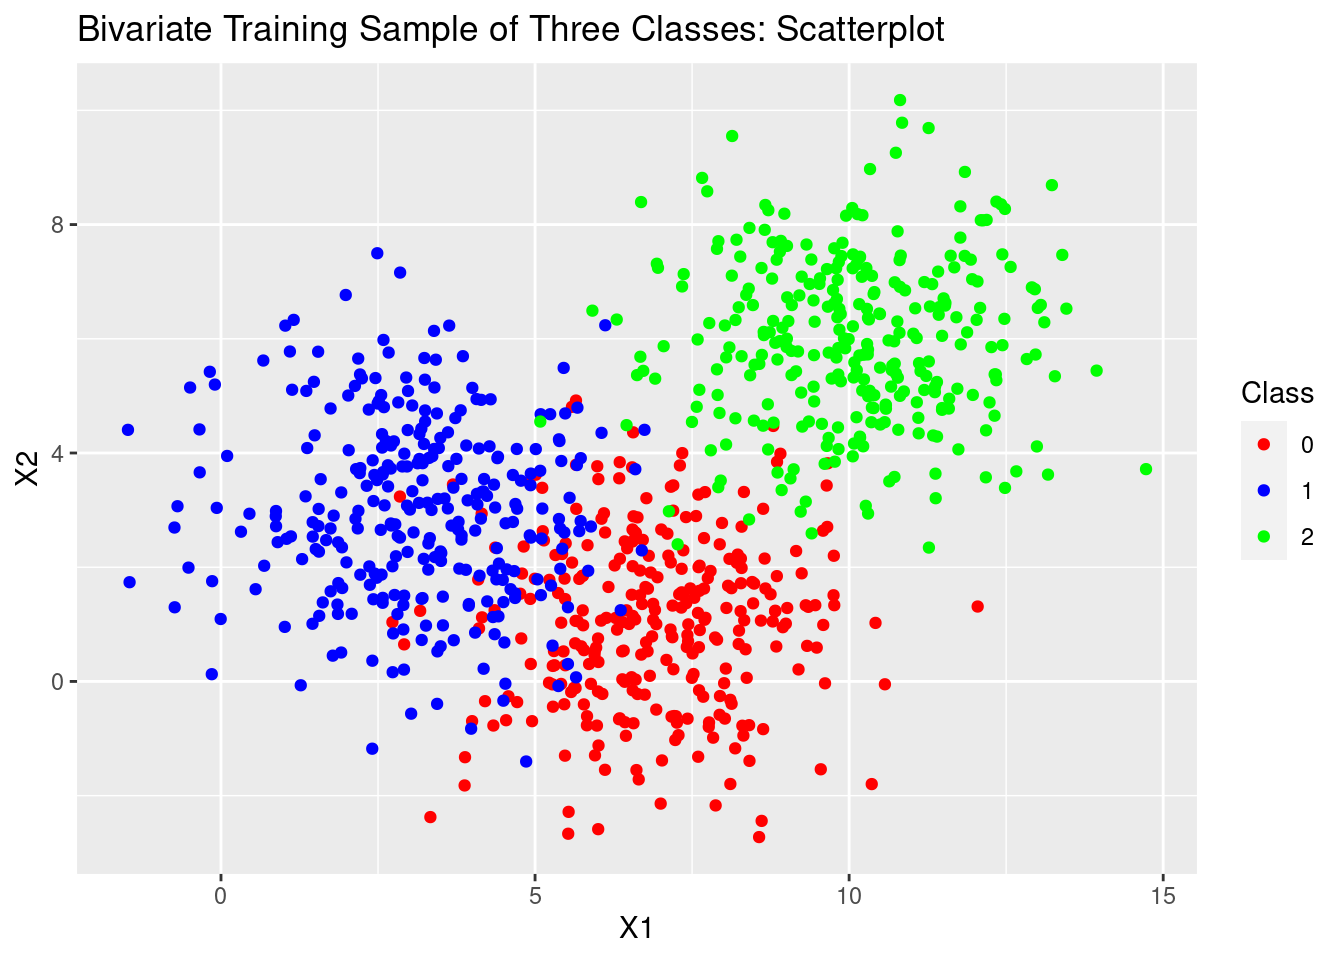
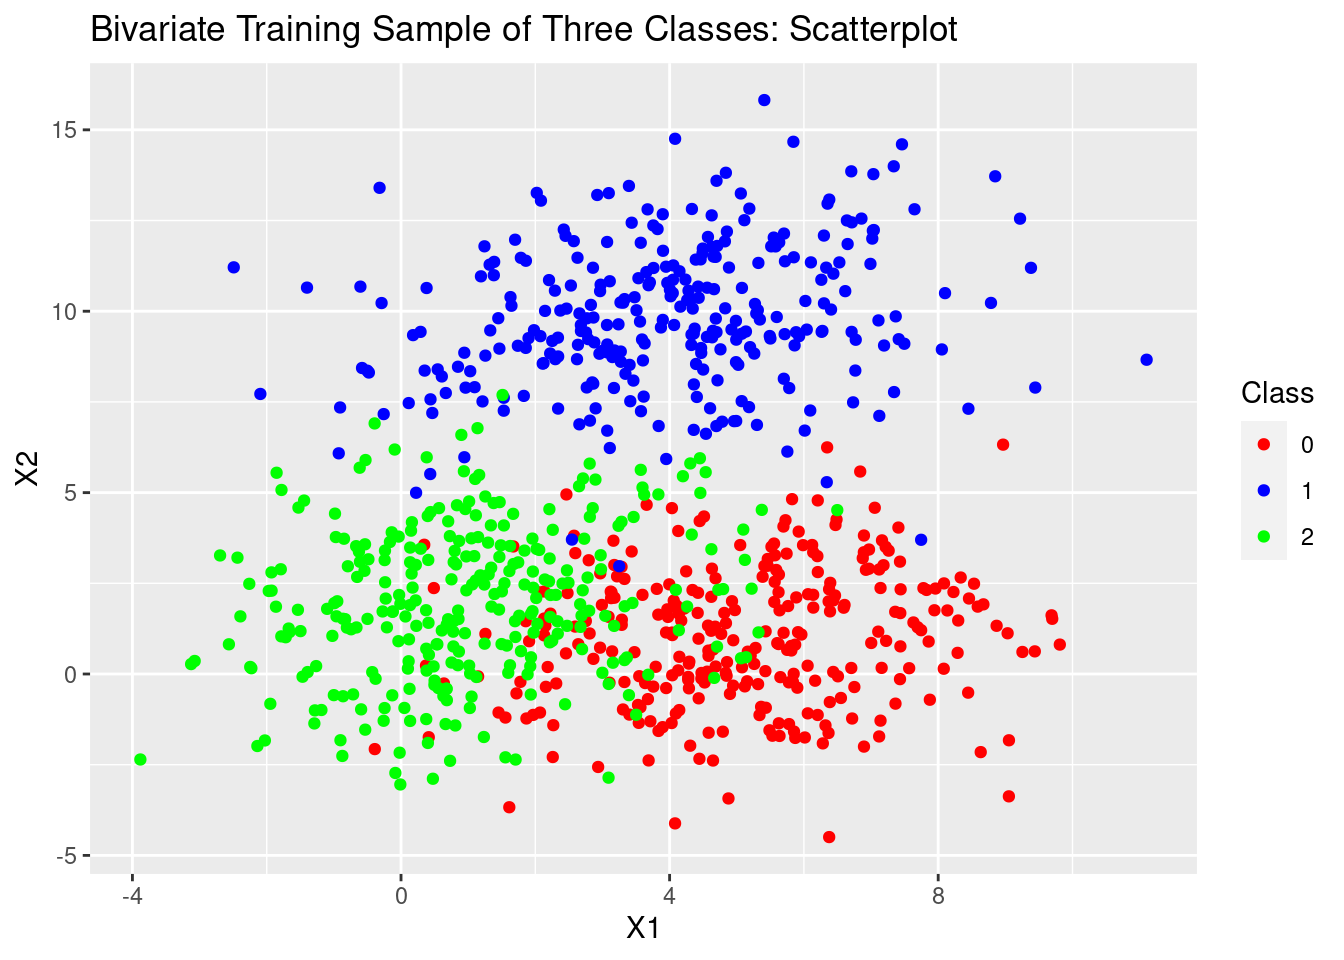
editing parentheses mistake in multivariate PDF

diff --git a/docs/multivariate_LDA.html b/docs/multivariate_LDA.html
@@ -374,9 +374,9 @@ pop_var &lt;- runif(1, 0, 10)
 pop_sigma &lt;- matrix(c(pop_var, pop_corr,
                       pop_corr, pop_var), 2, 2)</code></pre>
 <p>In this particular example our common covariance matrix looks like</p>
-<pre><code>##            [,1]       [,2]
-## [1,] 2.37429323 0.03586445
-## [2,] 0.03586445 2.37429323</code></pre>
+<pre><code>##           [,1]      [,2]
+## [1,] 4.0779083 0.9150748
+## [2,] 0.9150748 4.0779083</code></pre>
 <p>Now that we have our variable- and class-specific means and a common covariance matrix we can use <code>mvnorm</code> to generate our sample data. We’ll create equally-sized train and test sets with 300 observations in each of our three classes and bind our X1 and X2 samples together with our outcome set into a data frame.</p>
 <pre class="r"><code>n &lt;- 300
 
@@ -458,7 +458,7 @@ test_sample_scatter &lt;- ggplot(test_sample_df) +
 </center>
 <p>where <span class="math inline">\(k\)</span> represents one class and <span class="math inline">\(j\)</span> all others, <span class="math inline">\(\pi_k\)</span> represents the prior probability of class <span class="math inline">\(k\)</span>, <span class="math inline">\(p\)</span> is the number of variables, and we use a probability density function for <span class="math inline">\(f(\cdot)\)</span>. In this case we use the <a href="https://en.wikipedia.org/wiki/Multivariate_normal_distribution" target="_blank">multivariate normal PDF</a></p>
 <center>
-<span class="math display">\[\frac{1}{{2\color{red}{\pi}}^{\frac{p}{2}} \det(\Sigma)^\frac{1}{2}} e^{\frac{-1}{2} (x - \mu_k)^T \Sigma^{-1} (x - \mu_k)}\]</span>
+<span class="math display">\[\frac{1}{{(2\color{red}{\pi}})^{\frac{p}{2}} \det(\Sigma)^\frac{1}{2}} e^{\frac{-1}{2} (x - \mu_k)^T \Sigma^{-1} (x - \mu_k)}\]</span>
 </center>
 <p>where, in this idealized example, <span class="math inline">\(\Sigma_k, \Sigma_l, \ldots, \Sigma_K = \Sigma\)</span> since we are assuming (and in fact generating data from a distribution in which) all classes have the same covariance matrix. As noted in the univariate example, <span class="math inline">\(\color{red}{\pi}\)</span> in the PDF is the literal value pi, not a prior probability.</p>
 <p>Whereas in the univariate case we only had two outcomes/classes, in this example we have three. Instead of pairwise solving for two discriminant functions we need to pairwise solve for three. The process is of course the same for each pair, so we will generically work through solving for the discriminant functions for a single pair of classes.</p>
@@ -472,8 +472,8 @@ test_sample_scatter &lt;- ggplot(test_sample_df) +
 <p>Plugging in the multivariate normal PDF for <span class="math inline">\(f(\cdot)\)</span>, like in the univariate case, allows for a lot of simplification but with some twists:</p>
 <center>
 <span class="math display">\[\begin{align}
-\log\frac{\Pr(Y = k|X = x)}{\Pr(Y = l|X = x)} &amp;= \log{\frac{\pi_k}{\pi_l}} + \log \frac{\frac{1}{{2\color{red}{\pi}}^{\frac{p}{2}} \det(\Sigma)^\frac{1}{2}} e^{\frac{-1}{2} (x - \mu_k)^T \Sigma^{-1} (x - \mu_k)}}{\frac{1}{{2\color{red}{\pi}}^{\frac{p}{2}} \det(\Sigma)^\frac{1}{2}} e^{\frac{-1}{2} (x - \mu_l)^T \Sigma^{-1} (x - \mu_l)}} \\
-&amp;= \log{\frac{\pi_k}{\pi_l}} + \log \left( \frac{1}{{2\color{red}{\pi}}^{\frac{p}{2}} \det(\Sigma)^\frac{1}{2}} \bigg/ \frac{1}{{2\color{red}{\pi}}^{\frac{p}{2}} \det(\Sigma)^\frac{1}{2}}  \right) + \log{\frac{e^{\frac{-1}{2} (x - \mu_k)^T \Sigma^{-1} (x - \mu_k)}}{e^{\frac{-1}{2} (x - \mu_l)^T \Sigma^{-1} (x - \mu_l)}}} \\
+\log\frac{\Pr(Y = k|X = x)}{\Pr(Y = l|X = x)} &amp;= \log{\frac{\pi_k}{\pi_l}} + \log \frac{\frac{1}{{(2\color{red}{\pi}})^{\frac{p}{2}} \det(\Sigma)^\frac{1}{2}} e^{\frac{-1}{2} (x - \mu_k)^T \Sigma^{-1} (x - \mu_k)}}{\frac{1}{{(2\color{red}{\pi}})^{\frac{p}{2}} \det(\Sigma)^\frac{1}{2}} e^{\frac{-1}{2} (x - \mu_l)^T \Sigma^{-1} (x - \mu_l)}} \\
+&amp;= \log{\frac{\pi_k}{\pi_l}} + \log \left( \frac{1}{{(2\color{red}{\pi}})^{\frac{p}{2}} \det(\Sigma)^\frac{1}{2}} \bigg/ \frac{1}{{(2\color{red}{\pi}})^{\frac{p}{2}} \det(\Sigma)^\frac{1}{2}}  \right) + \log{\frac{e^{\frac{-1}{2} (x - \mu_k)^T \Sigma^{-1} (x - \mu_k)}}{e^{\frac{-1}{2} (x - \mu_l)^T \Sigma^{-1} (x - \mu_l)}}} \\
 &amp;= \log{\frac{\pi_k}{\pi_l}} - \frac{1}{2} (x - \mu_k)^T \Sigma^{-1} (x - \mu_k) + \frac{1}{2} (x - \mu_l)^T \Sigma^{-1} (x - \mu_l) \\
 \end{align}\]</span>
 </center>
@@ -667,13 +667,13 @@ for (i in 1:nrow(train_sample_df)) {
 train_sigma_LDA &lt;- train_sigma_LDA / (n * 3 - 3)</code></pre>
 <p>How close is our <span class="math inline">\(\hat{\Sigma}\)</span> to <span class="math inline">\(\Sigma\)</span>?</p>
 <pre><code>## [1] &quot;Sigma&quot;</code></pre>
-<pre><code>##            [,1]       [,2]
-## [1,] 2.37429323 0.03586445
-## [2,] 0.03586445 2.37429323</code></pre>
+<pre><code>##           [,1]      [,2]
+## [1,] 4.0779083 0.9150748
+## [2,] 0.9150748 4.0779083</code></pre>
 <pre><code>## [1] &quot;Estimated sigma&quot;</code></pre>
-<pre><code>##              [,1]         [,2]
-## [1,]  2.448339786 -0.003762778
-## [2,] -0.003762778  2.323354480</code></pre>
+<pre><code>##           [,1]      [,2]
+## [1,] 4.0366644 0.7747452
+## [2,] 0.7747452 4.0440847</code></pre>
 <p>Then, exactly like we did with the Bayes classifier, we build the LDA classifier by creating our discriminant functions and <code>apply</code> them via a decision rule function to our training sample:</p>
 <pre class="r"><code>d0_LDA &lt;- function(x_vec){
   t(x_vec) %*% solve(train_sigma_LDA) %*% sample_c0_mean_vec -
@@ -761,14 +761,14 @@ test_sample_df$LDA_predicted_y &lt;- apply(test_sample_df[, c(&quot;X1&quot;, &q
   nrow(test_sample_df)
 
 LDA_misclass_rate * 100</code></pre>
-<pre><code>## [1] 6.888889</code></pre>
+<pre><code>## [1] 12.33333</code></pre>
 <p>How about the misclassification rate for our (optimal) Bayes classifier?</p>
 <pre class="r"><code>bayes_misclass_rate &lt;- nrow(test_sample_df[test_sample_df$y != 
                                            test_sample_df$bayes_predicted_y,]) /
   nrow(test_sample_df)
 
 bayes_misclass_rate * 100</code></pre>
-<pre><code>## [1] 6.666667</code></pre>
+<pre><code>## [1] 11.77778</code></pre>
 <p>In this case, the LDA classifier performs well: it’s very close to the Bayes classifier. As noted in the univariate case, it’s of course possible for LDA to “outperform” the optimal Bayes classifier depending on the train and test samples, but the Bayes classifier here represents the “true” optimal classifier in a sense since its classifying based on population parameters.</p>
 </div>
 <div class="footnotes">
